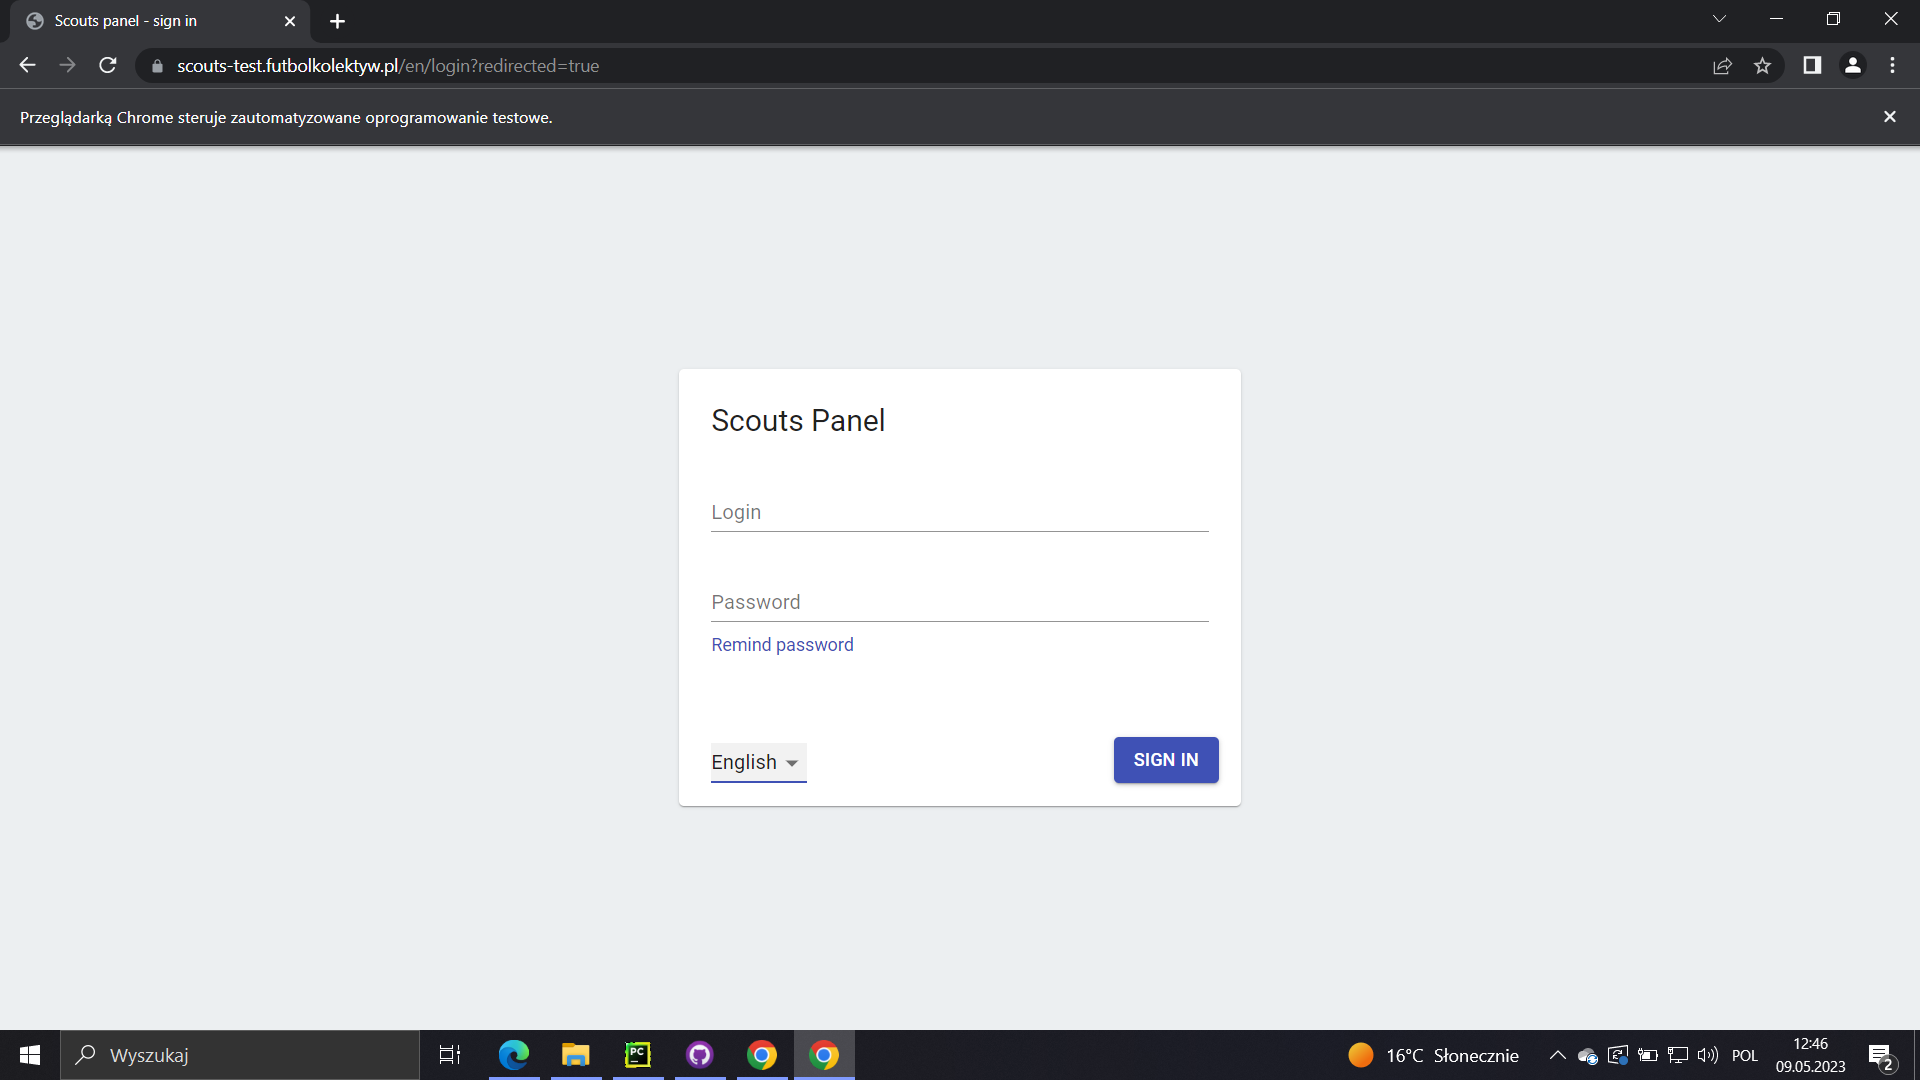
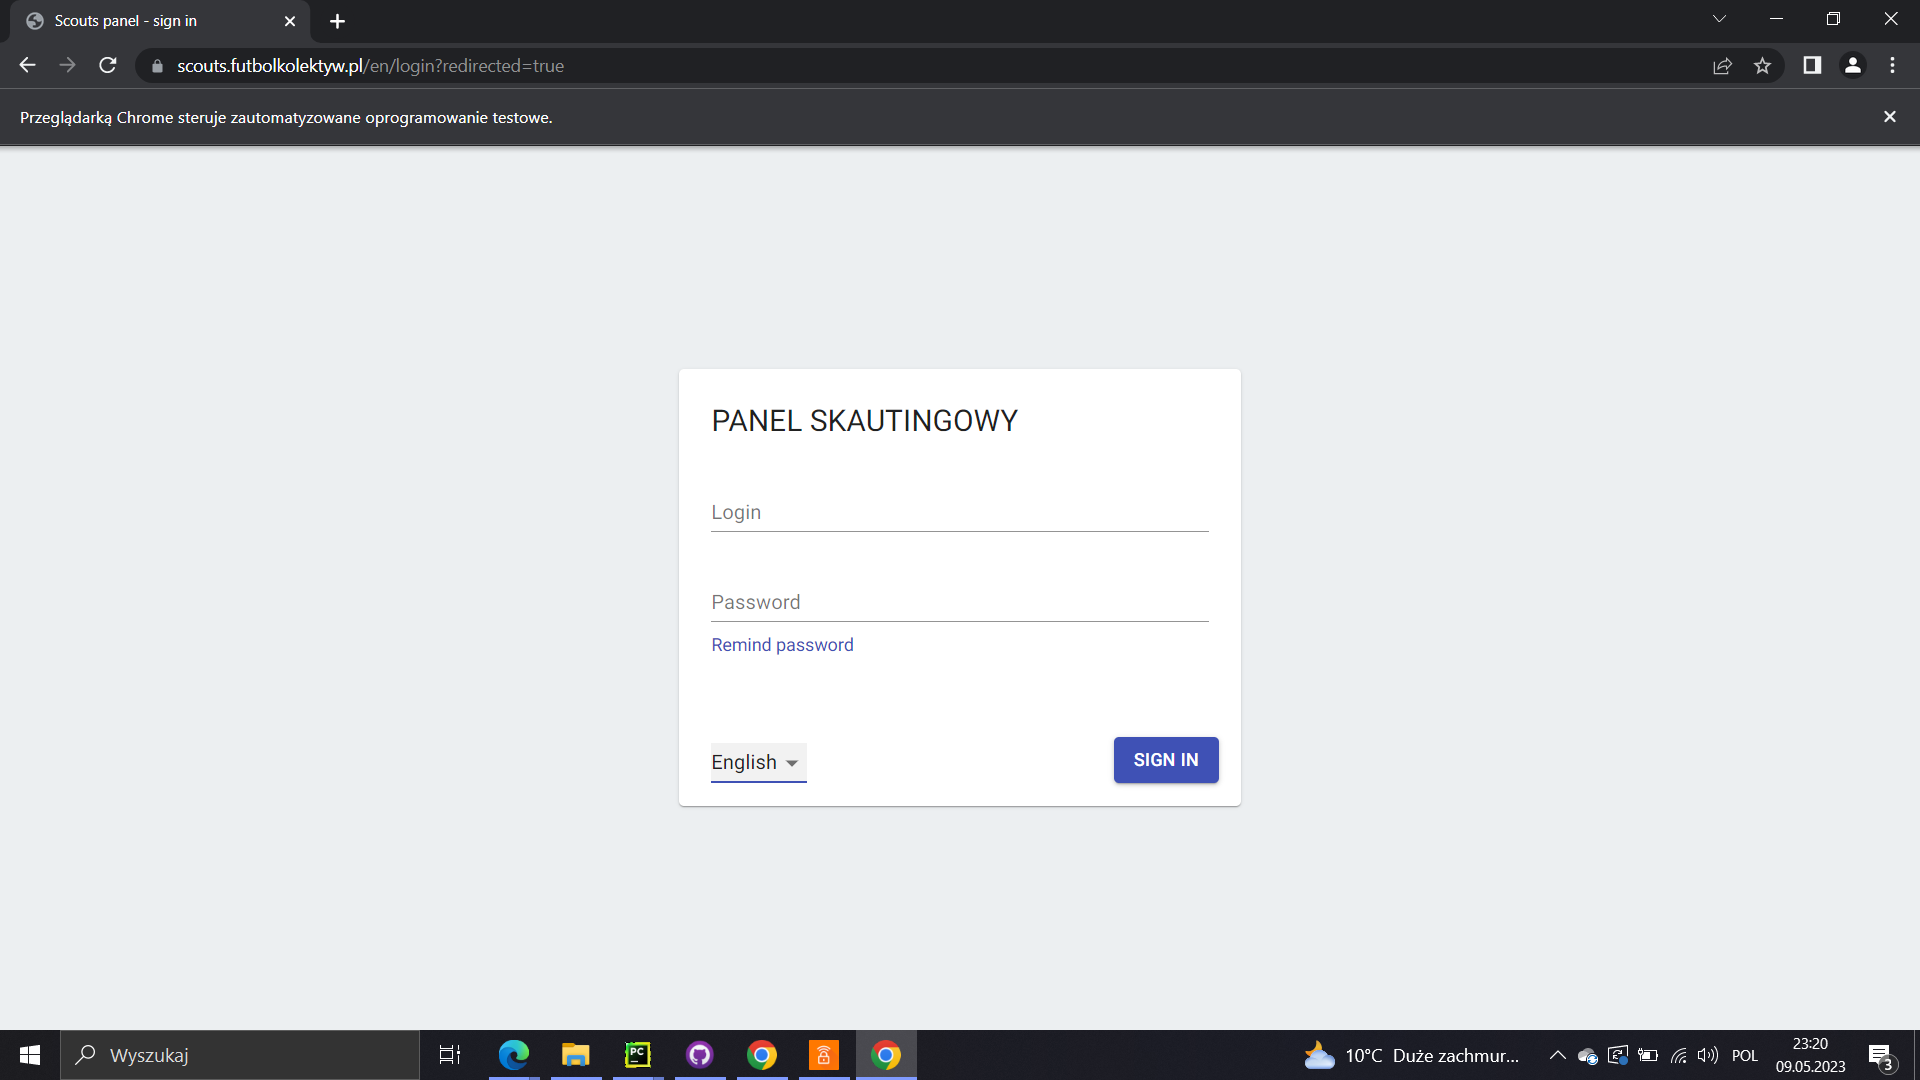
update zadanie 6

diff --git a/test_cases/login_to_the_system.py b/test_cases/login_to_the_system.py
@@ -15,7 +15,7 @@ class TestLoginPage(unittest.TestCase):
     def setUp(self):
         os.chmod(DRIVER_PATH, 755)
         self.driver = webdriver.Chrome(executable_path=DRIVER_PATH)
-        self.driver.get('https://scouts-test.futbolkolektyw.pl/en')
+        self.driver.get('https://scouts.futbolkolektyw.pl/en')
         self.driver.maximize_window()
         self.driver.implicitly_wait(IMPLICITLY_WAIT)
 
@@ -25,16 +25,32 @@ class TestLoginPage(unittest.TestCase):
 
     def test_log_in_to_the_system(self):
         user_login = LoginPage(self.driver)
-        user_login.title_of_page()  # check if the title of the opened page is correct (login page)
-        user_login.title_of_box()  # check if the title of the box is correct
+        #user_login.title_of_page()  # check if the title of the opened page is correct (login page)
+        #user_login.title_of_box()  # check if the title of the box is correct
         user_login.type_in_email('user07@getnada.com')  # enter "user07getnada@com" in the email field
         user_login.type_in_password('Test-1234')  # enter "Test-1234" in the password field
         user_login.click_on_the_sign_in_button()  # click on the sign in button
+
 
           # check if the title of the opened page is correct (dashboard)
 
         '''time.sleep (5)'''  # ta linia sprawia, że test zatrzymał się na 5 sekund,
         # a dopiero następnie zaczął wykonywać kolejne linie kodu. Ale tu zastępujemy ją Explicit wait
+        @classmethod
+        def tearDown(self):
+            self.driver.quit()
+    def test_assert_main_page_title(self):
+        user_login = LoginPage(self.driver)
+        user_login.type_in_email('user07@getnada.com')  # enter "user07getnada@com" in the email field
+        user_login.type_in_password('Test-1234')  # enter "Test-1234" in the password field
+        user_login.click_on_the_sign_in_button()  # click on the sign in button
+
+        dashboard_page = Dashboard(self.driver)
+
+        var_shot = pyautogui.screenshot()
+        var_shot.save('C:/Users/mofyp/GitHub/challenge_automated_testing/dashboard.png')
+        dashboard_page.title_of_page()
+
 
     @classmethod
     def tearDown(self):
@@ -51,6 +67,9 @@ class TestLoginPage(unittest.TestCase):
         user_login.title_of_sign_in_button_en()
         user_login.click_on_the_language_select_menu_button()
         user_login.click_on_the_polish_language_option()
+        user_login.click_on_the_english_language_option()
+        user_login.title_of_english_language_option()
+        user_login.title_of_box()
 
         var_shot = pyautogui.screenshot()
         var_shot.save('C:/Users/mofyp/GitHub/challenge_automated_testing/TC01-polish.png')
@@ -68,9 +87,6 @@ class TestLoginPage(unittest.TestCase):
 
         var_shot = pyautogui.screenshot()
         var_shot.save('C:/Users/mofyp/GitHub/challenge_automated_testing/TC01-english.png')
-
-    def assert_main_page_title
-
 
     def test_log_in_to_the_system_with_invalid_password(self):
         user_login = LoginPage(self.driver)
@@ -90,5 +106,8 @@ class TestLoginPage(unittest.TestCase):
         user_login.select_language("polski")
         time.sleep(5)
 
+    @classmethod
+    def tearDown(self):
+        self.driver.quit()
 
 

diff --git a/pages/add_a_player_form.py b/pages/add_a_player_form.py
@@ -4,7 +4,7 @@ from pages.base_page import BasePage
 
 
 class AddPlayerForm(BasePage):
-    add_player_form_url = "https://scouts-test.futbolkolektyw.pl/en/players/add"
+    add_player_form_url = "https://scouts.futbolkolektyw.pl/en/players/add"
     expected_title = "Add player"
     email_field_xpath = "//div[2]/div/div[1]/div/div/input"
     expected_email = "player2@gmail.com"
@@ -33,7 +33,7 @@ class AddPlayerForm(BasePage):
     second_position_field_xpath = "//div[12]/div/div/input"
     expected_second_position = "midfielder"
     district_select_menu_field_xpath = "//*[@id='mui-component-select-district']"
-    lodz_district_option_xpath = "//*[@data-value='lodzkie']"
+    lodz_district_option_xpath = "//div[3]/ul/li[5]"
     expected_district = "Łódź"
     achievements_field_xpath = "//div[14]/div/div/input"
     expected_achievements = "winner of the Winners Cup, 3 goals in 10 seconds"
@@ -48,6 +48,7 @@ class AddPlayerForm(BasePage):
     facebook_field_xpath = "//div[18]/div/div/input"
     expected_facebook_link = "https://facebook.com"
     submit_button_xpath = "//div[3]/button[1]/span[1]"
+    edit_player_title_xpath = "//form/div[1]/div/span"
 
     def title_of_page(self):
         assert self.get_page_title(self.add_player_form_url) == self.expected_title
@@ -118,7 +119,7 @@ class AddPlayerForm(BasePage):
         self.field_send_keys(self.youtube_field_xpath, link)
 
     def type_in_facebook_link(self, link):
-        self.field_send_keys((self.facebook_field_xpath, link))
+        self.field_send_keys(self.facebook_field_xpath, link)
 
     def click_on_the_submit_button(self):
         self.wait_for_element_to_be_clickable(self.submit_button_xpath)
@@ -132,6 +133,8 @@ class AddPlayerForm(BasePage):
             self.click_on_the_element(self.left_leg_option_xpath)
 
     def assert_name (self):
+
+        self.wait_for_element_to_be_clickable(self.name_field_xpath)
         self.assert_element_text(self.driver, self.name_field_xpath, self.expected_name)
 
     def assert_surname(self):

diff --git a/pages/players_table.py b/pages/players_table.py
@@ -25,7 +25,7 @@ class FilterPlayersTable(BasePage):
     expected_main_position_title = "defender"
     searched_club_xpath = "//td[5]/div[2]"
     expected_club_title = "Wild Goats"
-    player_choosing_button_xpath = "//td[1]"
+    player_choosing_button_xpath = "//tr[1]/td[1]/div[2]"
 
     def click_on_the_filter_table_button(self):
         self.click_on_the_element(self.filter_table_button_xpath)
@@ -74,5 +74,5 @@ class FilterPlayersTable(BasePage):
         self.assert_element_text(self.driver, self.searched_main_position_xpath, self.expected_main_position_title)
 
     def click_on_the_player_choosing_button(self):
-        self.wait_for_element_to_be_clickable(self.player_choosing_button)
-        self.click_on_the_element(self.player_choosing_button)
+        self.wait_for_element_to_be_clickable(self.player_choosing_button_xpath)
+        self.click_on_the_element(self.player_choosing_button_xpath)

diff --git a/test_cases/adding_new_player.py b/test_cases/adding_new_player.py
@@ -19,7 +19,7 @@ class TestAddPlayerForm(unittest.TestCase):
     def setUp(self):
         os.chmod(DRIVER_PATH, 755)
         self.driver = webdriver.Chrome(executable_path=DRIVER_PATH)
-        self.driver.get('https://scouts-test.futbolkolektyw.pl/en')
+        self.driver.get('https://scouts.futbolkolektyw.pl/en')
         self.driver.maximize_window()
         self.driver.implicitly_wait(IMPLICITLY_WAIT)
 
@@ -67,7 +67,6 @@ class TestAddPlayerForm(unittest.TestCase):
         var_shot = pyautogui.screenshot()
         var_shot.save('C:/Users/mofyp/GitHub/challenge_automated_testing/TC03-2.png')
 
-    def test_assert_fields(self):
         add_player_form = AddPlayerForm(self.driver)
         add_player_form.assert_name()
         add_player_form.assert_email()

diff --git a/test_cases/adding_a_match.py b/test_cases/adding_a_match.py
@@ -36,8 +36,9 @@ class TestAddingAMatch(unittest.TestCase):
         player_panel.click_on_the_matches_of_a_player_button()
         player_panel.click_on_the_add_match_button()
 
+        var_shot = pyautogui.screenshot()
+        var_shot.save('C:/Users/mofyp/GitHub/challenge_automated_testing/TC05-1.png')
         add_a_match_form = AddAMatchForm(self.driver)
         add_a_match_form.wait_for_element()
 
-        var_shot = pyautogui.screenshot()
-        var_shot.save('C:/Users/mofyp/GitHub/challenge_automated_testing/TC05-1.png')
+

diff --git a/pages/add_a_match_form.py b/pages/add_a_match_form.py
@@ -14,7 +14,7 @@ class AddAMatchForm(BasePage):
     time_played_input_xpath = "//div[9]/div/div/input"
     number_input_xpath = "//input[contains(@name,'number')]"
     web_match_input_xpath = "//div[11]/div/div/input"
-    add_a_match_form_url = "https://www.scouts-test.futbolkolektyw.pl/en/players/6447e5147ccfb69252f31418/matches/add"
+    add_a_match_form_url = "https://www.scouts.futbolkolektyw.pl/en/players/6447e5147ccfb69252f31418/matches/add"
     expected_title = "Adding match player Player 2 Playerowski"
 
 

diff --git a/pages/login_page.py b/pages/login_page.py
@@ -12,7 +12,7 @@ class LoginPage(BasePage):
     language_select_menu_xpath = "//div[@tabindex='0']"
     polish_language_option_xpath = "//ul/li[1]"
     english_language_option_xpath = "//ul/li[2]"
-    login_url = "https://scouts-test.futbolkolektyw.pl/en/"
+    login_url = "https://scouts.futbolkolektyw.pl/en/"
     expected_title = "Scouts panel - sign in"
     title_of_box_xpath = "//form/div/div[1]/h5"
     expected_title_of_box = "Scouts Panel"

diff --git a/test_cases/framework.py b/test_cases/framework.py
@@ -16,7 +16,7 @@ class Test(unittest.TestCase):
     def setUp(self):
         os.chmod(DRIVER_PATH, 755)
         self.driver = webdriver.Chrome(executable_path=DRIVER_PATH)
-        self.driver.get('https://scouts-test.futbolkolektyw.pl/en')
+        self.driver.get('https://scouts.futbolkolektyw.pl/en')
         self.driver.fullscreen_window()
         self.driver.implicitly_wait(IMPLICITLY_WAIT)
 
